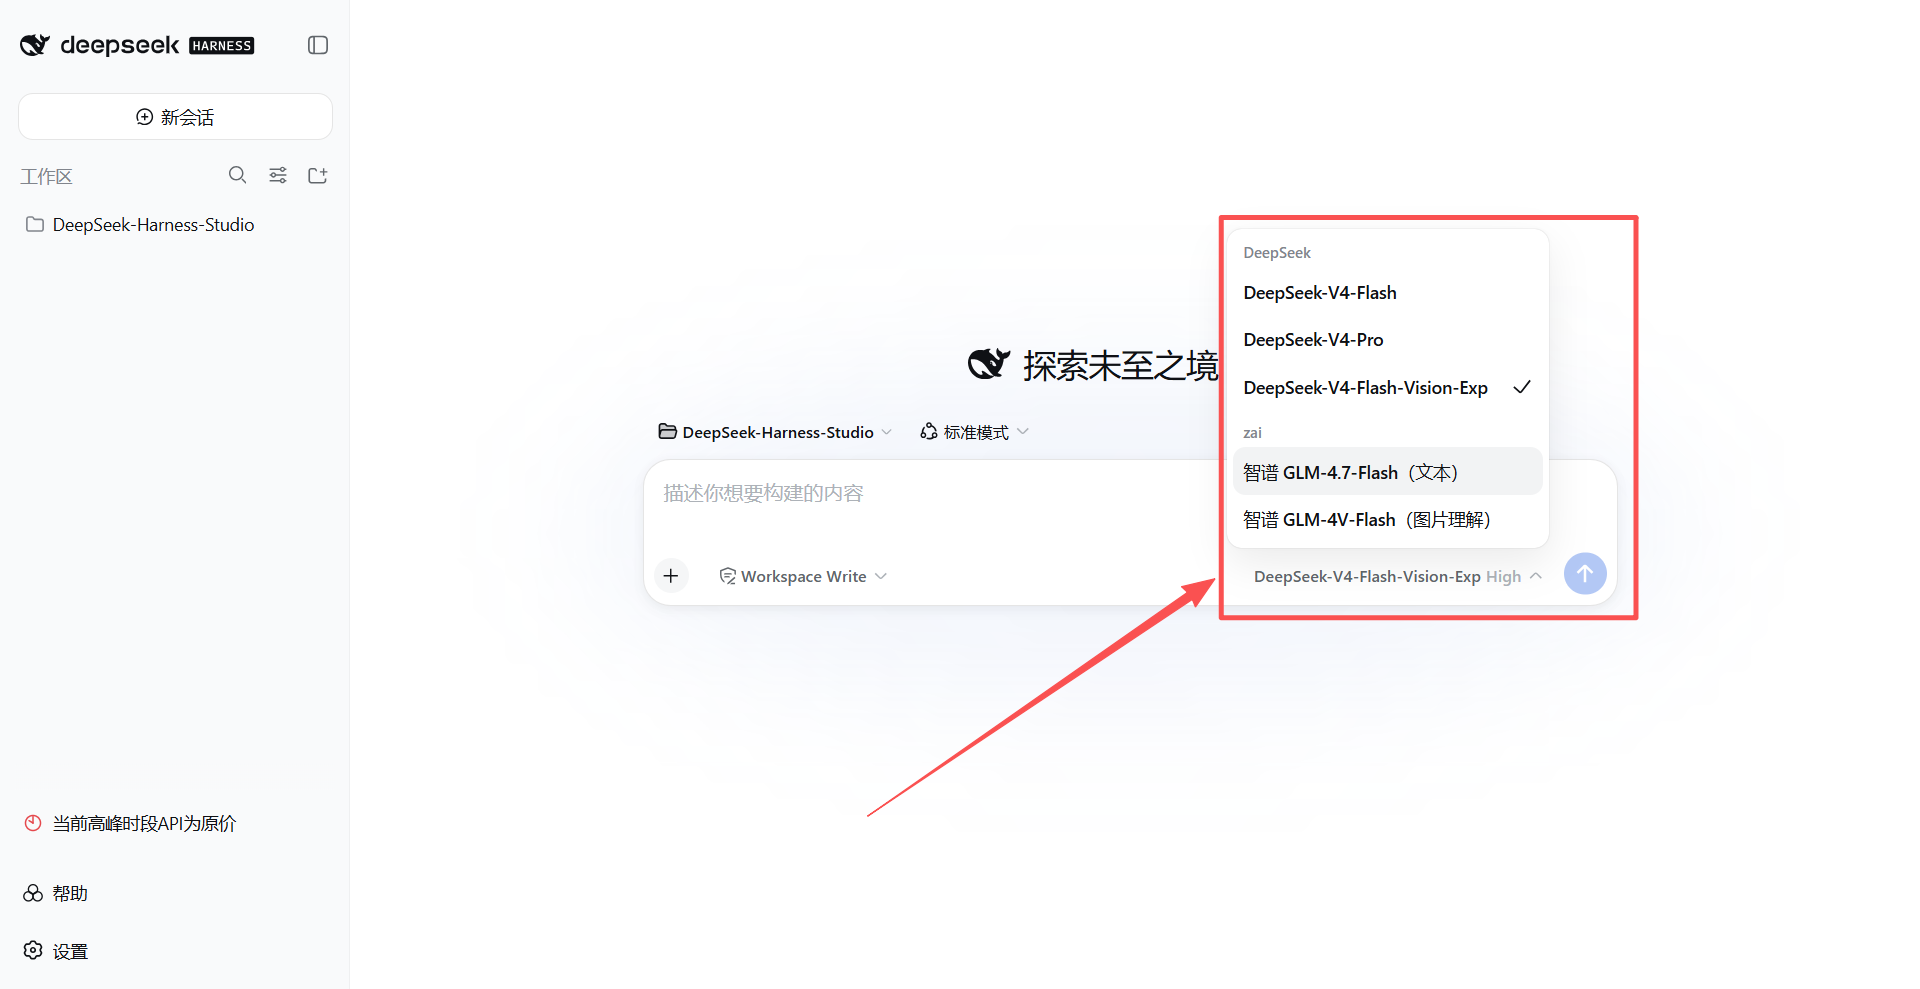
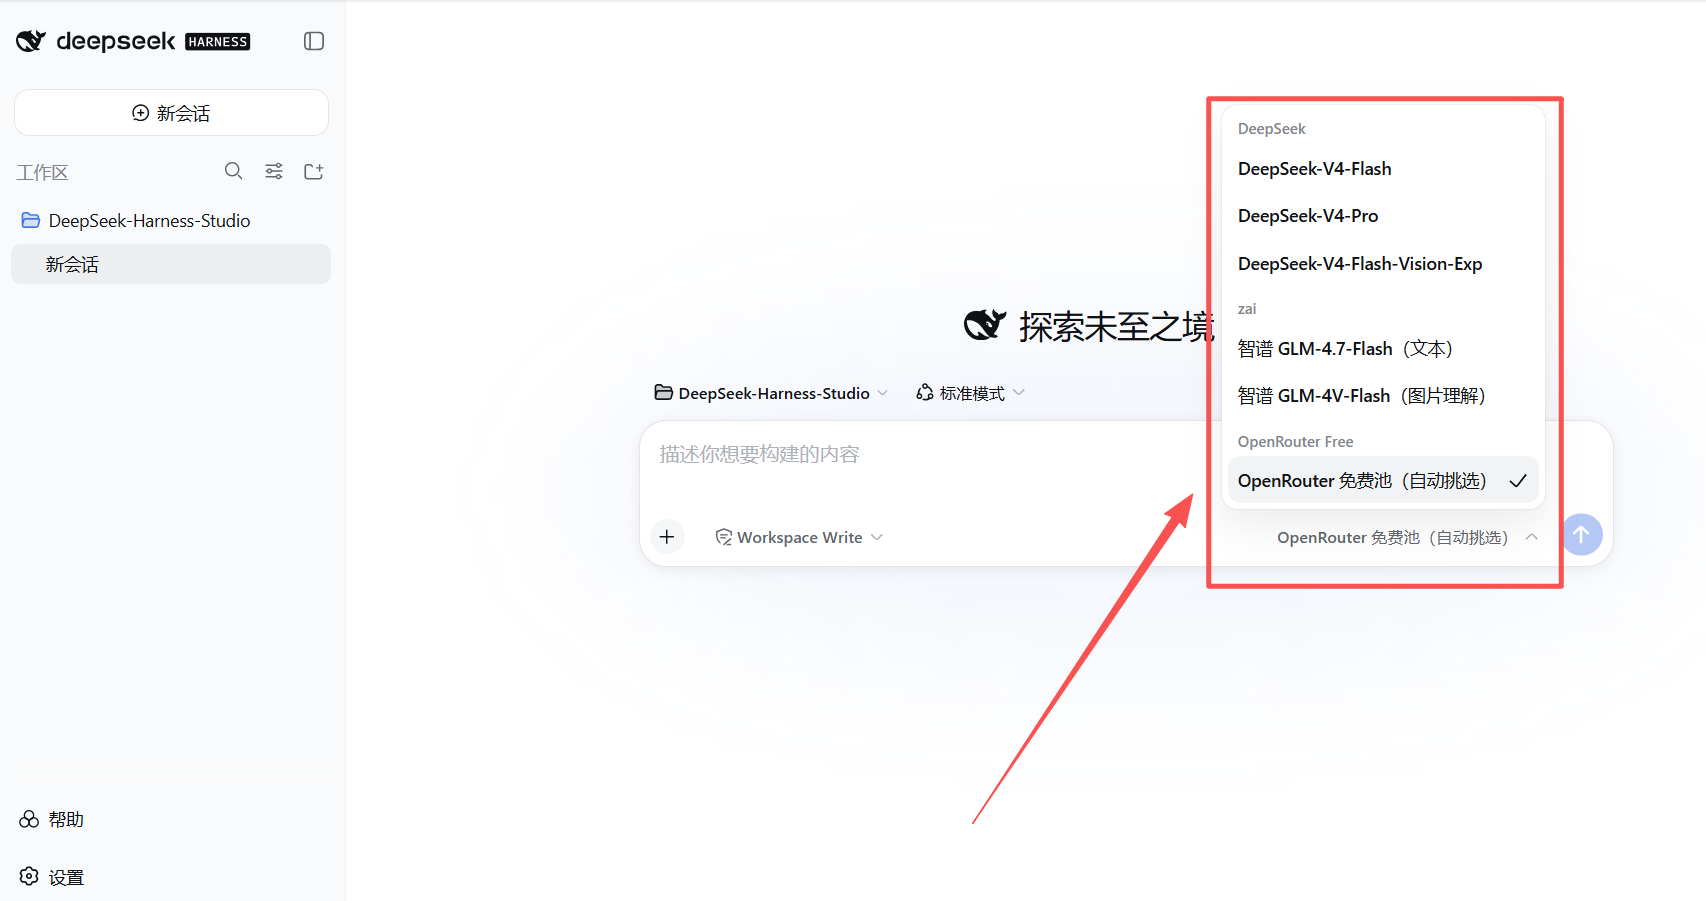
fix: v1.6.1 — footer hint hides when any free model is connected
- FooterActions showHint: replace !status.zai (Zhipu-only) with !hasAnyInstalled
  (any provider), so '点此处配置API免费模型' correctly disappears when only
  OpenRouter is connected.
- Bump version to 1.6.1 (package.json / client.js PLUGIN_VERSION / README CN+EN).
- Add v1.6.1 fix notes to README CN+EN.
- Update screenshots/2.png (Config Center: Zhipu + OpenRouter both '已接入')
  and screenshots/3.png (model picker: Zhipu GLM text/vision + OpenRouter pool).

diff --git a/lib/client.js b/lib/client.js
@@ -599,7 +599,7 @@ window.__ModuleLoader__.load({
 		}
 
 		// ---------- help center (remote JSON + built-in fallback) ----------
-		const PLUGIN_VERSION = "1.6.0";
+		const PLUGIN_VERSION = "1.6.1";
 		const DEFAULT_HELP = {
 			version: "2026-08-30.1",
 			updatedAt: "2026-08-30",
@@ -1259,10 +1259,12 @@ window.__ModuleLoader__.load({
 		// ---------- footer assembly (left to right) ----------
 		function FooterActions(props) {
 			const { wide } = props;
-			const { status, loaded } = useConfigured();
-			// 提示条显隐：仅当智谱免费模型未配置时显示；loaded 门控避免首次
+			const { loaded, hasAnyInstalled } = useConfigured();
+			// 提示条显隐：仅当没有任何免费模型已配置时显示；loaded 门控避免首次
 			// 状态加载完成前闪现引导按钮（status 初始为空对象）。
-			const showHint = loaded ? !status.zai : false;
+			// v1.6.1 修复：旧逻辑只检查智谱(status.zai)，导致仅接入 OpenRouter
+			// 时提示条仍错误显示；改为检查全量 provider 是否有任一已接入。
+			const showHint = loaded ? !hasAnyInstalled : false;
 			const pricingState = useModelPricingState();
 			const collapsed = useSidebarCollapsed();
 			return (0, react_jsx_runtime.jsxs)("div", {

diff --git a/README.en.md b/README.en.md
@@ -17,7 +17,8 @@ No.0 Tools is designed for users with no programming background who are trying D
 
 ## Version & Compatibility
 
-- Current version: **v1.6.0**
+- Current version: **v1.6.1**
+- **v1.6.1 fix**: corrected the visibility logic of the footer "Click Here to Configure Free API Models" hint — the old logic only checked whether Zhipu was configured, so the hint wrongly stayed visible when only the OpenRouter free model pool was connected. It now checks whether any free model is connected (Zhipu / OpenRouter / any future model).
 - Compatible DSH versions: **≥ `0.1.1`** (v1.5.0 switched to DSH's official config channel, raising the minimum supported version — see the compatibility notice below)
 - **System requirements**: Windows 10 / Windows 11 only. macOS and Linux are not supported at this time.
 

diff --git a/README.md b/README.md
@@ -17,7 +17,8 @@
 
 ## 当前版本与兼容范围
 
-- 当前版本：**v1.6.0**
+- 当前版本：**v1.6.1**
+- **v1.6.1 修复**：修复页脚「点此处配置API免费模型」提示条的显隐逻辑——旧版只检查智谱是否配置，导致仅接入 OpenRouter 免费模型池时提示条仍错误显示；改为检查是否有任一免费模型已接入（智谱 / OpenRouter / 未来新增模型均适用）。
 - 兼容 DSH 版本：**≥ `0.1.1`**（v1.5.0 起改用 DSH 官方配置通道，最低兼容版本收缩，详见下方「兼容性」公告）
 - **系统要求**：仅支持 **Windows 10 / Windows 11** 系统；暂不支持 macOS（苹果电脑）和 Linux 系统。
 
